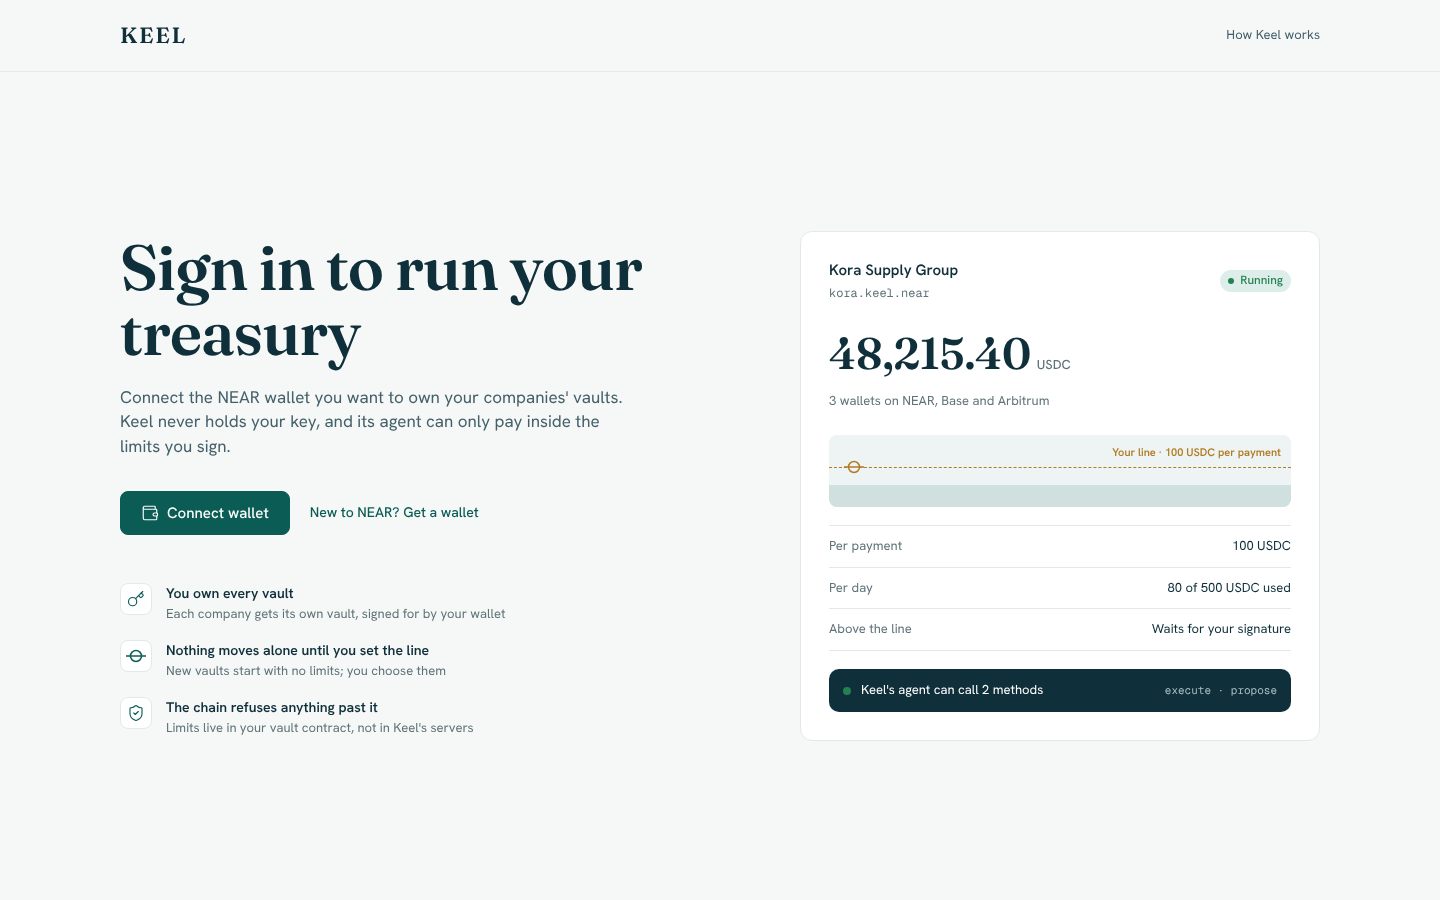
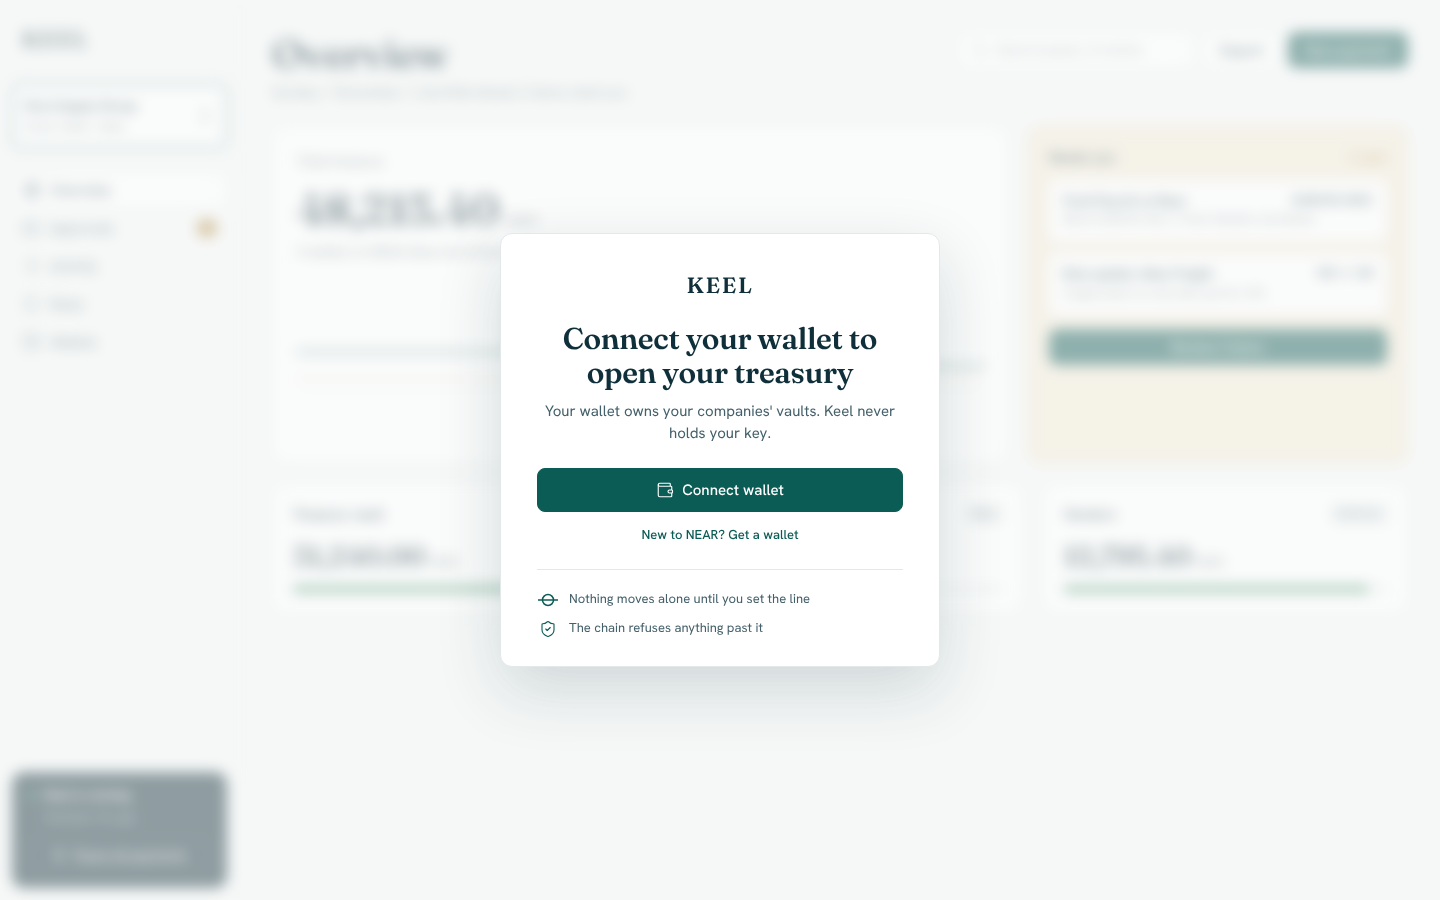
Mockup: sign-in as a Connect wallet panel over the blurred app

diff --git a/design/mockups/01-sign-in.html b/design/mockups/01-sign-in.html
@@ -3,102 +3,138 @@
 <head>
 <meta charset="utf-8" />
 <meta name="viewport" content="width=device-width, initial-scale=1" />
-<title>Keel · Sign in</title>
+<title>Keel · Connect wallet</title>
 <link href="https://fonts.googleapis.com/css2?family=Fraunces:opsz,wght@9..144,600&family=Hanken+Grotesk:wght@400;500;600&family=Geist+Mono:wght@400;500&display=swap" rel="stylesheet" />
 <link rel="stylesheet" href="shared.css" />
 <style>
-  .top { display: flex; align-items: center; justify-content: space-between; height: 72px; padding: 0 120px; border-bottom: 1px solid var(--line); background: var(--page); }
-  .top .wordmark { padding: 0; }
-  .top a { color: var(--ink-2); text-decoration: none; font-size: 13px; }
-  .wrap { display: grid; grid-template-columns: 1fr 520px; gap: 80px; align-items: center; min-height: calc(100vh - 72px); padding: 48px 120px; max-width: 1440px; margin: 0 auto; }
-  h1 { font-size: 64px; line-height: 1.02; }
-  .lead { font-size: 17px; color: var(--ink-2); margin: 20px 0 32px; max-width: 520px; }
-  .actions { display: flex; align-items: center; gap: 20px; }
-  .promises { margin-top: 48px; display: grid; gap: 16px; max-width: 520px; }
-  .promise { display: flex; gap: 14px; align-items: flex-start; }
-  .promise .ic { display: flex; align-items: center; justify-content: center; width: 32px; height: 32px; border-radius: 8px; background: var(--surface); border: 1px solid var(--line); color: var(--teal); flex: none; }
-  .promise b { display: block; font-weight: 600; }
-  .promise span { color: var(--muted); font-size: 13px; }
+  .company-card { cursor: pointer; border-color: var(--teal); box-shadow: 0 0 0 3px rgba(11,92,85,0.10); }
+  .switcher { position: absolute; left: 12px; top: 136px; width: 300px; z-index: 5; padding: 6px; background: var(--surface); border: 1px solid var(--line); border-radius: 12px; box-shadow: 0 12px 32px rgba(15,47,58,0.14); }
+  .switcher .label { padding: 8px 10px 6px; font-size: 12px; color: var(--muted); }
+  .opt { display: flex; align-items: center; gap: 10px; padding: 9px 10px; border-radius: 8px; }
+  .opt.on { background: var(--page); }
+  .opt .mark { display: inline-flex; align-items: center; justify-content: center; width: 28px; height: 28px; border-radius: 7px; background: var(--teal-tint); color: var(--teal); font: 600 13px var(--serif); flex: none; }
+  .opt .txt { flex: 1; min-width: 0; }
+  .opt .txt b { display: block; font-weight: 600; font-size: 13px; }
+  .opt .check { color: var(--teal); }
+  .divider { height: 1px; background: var(--line); margin: 6px 4px; }
+  .opt.add { color: var(--teal); font-weight: 600; font-size: 13px; }
+  .opt.add .mark { background: transparent; border: 1px dashed #b9c7c7; }
+  .opt .meta { font-size: 11px; color: var(--muted); }
 
-  /* Right: a vault card, the one bright element */
-  .vault { padding: 28px; position: relative; overflow: hidden; }
-  .vault-top { display: flex; align-items: center; justify-content: space-between; }
-  .vault-name { font-weight: 600; font-size: 15px; }
-  .vault .bal { font-size: 44px; margin: 20px 0 4px; }
-  .vault .bal small { font: 500 13px var(--sans); color: var(--muted); margin-left: 6px; letter-spacing: 0; }
-  .line-meter { position: relative; height: 72px; margin: 24px 0 8px; border-radius: 8px; background: var(--chart-fill); overflow: hidden; }
-  .line-meter .water { position: absolute; left: 0; right: 0; bottom: 0; height: 22px; background: #cfe0de; }
-  .line-meter .cap { position: absolute; left: 0; right: 0; top: 32px; border-top: 1.5px dashed var(--brass); }
-  .line-meter .cap-label { position: absolute; right: 10px; top: 10px; font-size: 11px; color: var(--brass); font-weight: 600; }
-  .line-meter .mark { position: absolute; left: 14px; top: 25px; }
-  .rules { margin-top: 18px; border-top: 1px solid var(--line); }
-  .rules div { display: flex; justify-content: space-between; padding: 11px 0; border-bottom: 1px solid var(--line); font-size: 13px; }
-  .rules div span:first-child { color: var(--muted); }
-  .agent { display: flex; align-items: center; gap: 10px; margin-top: 18px; padding: 12px 14px; border-radius: 10px; background: var(--ink); color: #fff; font-size: 13px; }
-  .agent .dot { width: 8px; height: 8px; border-radius: 4px; background: var(--good); }
-  .agent span:last-child { margin-left: auto; color: #a9bcc1; font-family: var(--mono); font-size: 11px; }
+  .dim { opacity: 0.55; }
+  .grid { display: grid; grid-template-columns: 1fr 380px; gap: 20px; }
+  .treasury .big { font-size: 44px; margin-top: 6px; }
+  .treasury .big small { font: 500 13px var(--sans); color: var(--muted); margin-left: 6px; letter-spacing: 0; }
+  .chart { margin-top: 20px; height: 150px; }
+  .needs { background: var(--brass-tint); border: 1px solid var(--brass-line); border-radius: 12px; padding: 20px; }
+  .needs .top { display: flex; justify-content: space-between; align-items: center; font-weight: 600; }
+  .needs .top span { font-size: 12px; color: var(--brass); font-weight: 500; }
+  .needs .item { background: var(--surface); border-radius: 8px; padding: 12px 14px; margin-top: 12px; font-size: 13px; }
+  .needs .item b { display: flex; justify-content: space-between; font-weight: 600; }
+  .needs .item span { color: var(--muted); font-size: 12px; }
+  .needs .btn { margin-top: 14px; }
+  .wallets { display: grid; grid-template-columns: repeat(3, 1fr); gap: 20px; margin-top: 20px; }
+  .w { padding: 20px; }
+  .w .t { display: flex; justify-content: space-between; font-weight: 600; }
+  .w .v { font-size: 28px; margin: 12px 0 10px; }
+  .w .v small { font: 500 12px var(--sans); color: var(--muted); margin-left: 4px; }
+  .bar { height: 6px; border-radius: 3px; background: #e7eded; overflow: hidden; }
+  .bar i { display: block; height: 100%; background: var(--good); }
+
+  .behind { filter: blur(7px) saturate(0.9); pointer-events: none; user-select: none; }
+  .scrim { position: fixed; inset: 0; background: rgba(246,248,247,0.55); display: flex; align-items: center; justify-content: center; }
+  .gate { width: 440px; padding: 36px 36px 28px; text-align: center; box-shadow: 0 24px 64px rgba(15,47,58,0.16); }
+  .gate .wordmark { display: block; padding: 0; margin-bottom: 20px; }
+  .gate h1 { font-size: 30px; line-height: 1.15; }
+  .gate .lead { color: var(--ink-2); font-size: 15px; margin: 10px 0 24px; }
+  .gate .promises { margin-top: 24px; padding-top: 20px; border-top: 1px solid var(--line); display: grid; gap: 10px; text-align: left; }
+  .gate .promises div { display: flex; gap: 10px; align-items: center; font-size: 13px; color: var(--ink-2); }
+  .gate .promises svg { color: var(--teal); width: 22px; flex: none; }
+  .gate .new { display: block; margin-top: 14px; font-size: 13px; }
 </style>
 </head>
 <body>
-  <header class="top">
-    <span class="wordmark">KEEL</span>
-    <a href="#">How Keel works</a>
-  </header>
-
-  <main class="wrap">
-    <section>
-      <h1 class="serif">Sign in to run your treasury</h1>
-      <p class="lead">Connect the NEAR wallet you want to own your companies' vaults. Keel never holds your key, and its agent can only pay inside the limits you sign.</p>
-      <div class="actions">
-        <button class="btn primary lg">
-          <svg class="icon" viewBox="0 0 24 24"><path d="M19 7V4a1 1 0 0 0-1-1H5a2 2 0 0 0 0 4h15a1 1 0 0 1 1 1v4h-3a2 2 0 0 0 0 4h3a1 1 0 0 0 1-1v-2a1 1 0 0 0-1-1"/><path d="M3 5v14a2 2 0 0 0 2 2h15a1 1 0 0 0 1-1v-4"/></svg>
-          Connect wallet
-        </button>
-        <a class="link" href="#">New to NEAR? Get a wallet</a>
-      </div>
-
-      <div class="promises">
-        <div class="promise">
-          <span class="ic"><svg class="icon" viewBox="0 0 24 24"><path d="m15.5 7.5 2.3 2.3a1 1 0 0 0 1.4 0l2.1-2.1a1 1 0 0 0 0-1.4L19 4"/><path d="m21 2-9.6 9.6"/><circle cx="7.5" cy="15.5" r="5.5"/></svg></span>
-          <div><b>You own every vault</b><span>Each company gets its own vault, signed for by your wallet</span></div>
-        </div>
-        <div class="promise">
-          <span class="ic"><svg class="loadline" viewBox="0 0 22 14"><circle cx="11" cy="7" r="5.5" fill="none" stroke="currentColor" stroke-width="1.5"/><path d="M1 7h20" stroke="currentColor" stroke-width="1.5"/></svg></span>
-          <div><b>Nothing moves alone until you set the line</b><span>New vaults start with no limits; you choose them</span></div>
-        </div>
-        <div class="promise">
-          <span class="ic"><svg class="icon" viewBox="0 0 24 24"><path d="M20 13c0 5-3.5 7.5-7.66 8.95a1 1 0 0 1-.67-.01C7.5 20.5 4 18 4 13V6a1 1 0 0 1 1-1c2 0 4.5-1.2 6.24-2.72a1.17 1.17 0 0 1 1.52 0C14.51 3.81 17 5 19 5a1 1 0 0 1 1 1z"/><path d="m9 12 2 2 4-4"/></svg></span>
-          <div><b>The chain refuses anything past it</b><span>Limits live in your vault contract, not in Keel's servers</span></div>
-        </div>
-      </div>
-    </section>
-
-    <aside class="card vault">
-      <div class="vault-top">
-        <div>
-          <div class="vault-name">Kora Supply Group</div>
+  <div class="app behind" aria-hidden="true">
+    <aside class="sidebar">
+      <span class="wordmark">KEEL</span>
+      <div class="company-card">
+        <div class="who">
+          <div class="name">Kora Supply Group</div>
           <span class="mono">kora.keel.near</span>
         </div>
-        <span class="pill ok">Running</span>
-      </div>
-      <div class="bal serif num">48,215.40<small>USDC</small></div>
-      <span class="muted" style="font-size:13px">3 wallets on NEAR, Base and Arbitrum</span>
-
-      <div class="line-meter">
-        <div class="water"></div>
-        <div class="cap"></div>
-        <svg class="loadline mark" viewBox="0 0 22 14" style="color:var(--brass)"><circle cx="11" cy="7" r="5.5" fill="var(--chart-fill)" stroke="currentColor" stroke-width="1.5"/><path d="M1 7h20" stroke="currentColor" stroke-width="1.5"/></svg>
-        <span class="cap-label">Your line · 100 USDC per payment</span>
+        <svg class="icon" style="color:var(--muted)" viewBox="0 0 24 24"><path d="m7 15 5 5 5-5"/><path d="m7 9 5-5 5 5"/></svg>
       </div>
 
-      <div class="rules">
-        <div><span>Per payment</span><span class="num">100 USDC</span></div>
-        <div><span>Per day</span><span class="num">80 of 500 USDC used</span></div>
-        <div><span>Above the line</span><span>Waits for your signature</span></div>
-      </div>
+      <nav class="nav">
+        <a class="active"><svg class="icon" viewBox="0 0 24 24"><rect width="7" height="7" x="3" y="3" rx="1"/><rect width="7" height="7" x="14" y="3" rx="1"/><rect width="7" height="7" x="14" y="14" rx="1"/><rect width="7" height="7" x="3" y="14" rx="1"/></svg>Overview</a>
+        <a><svg class="icon" viewBox="0 0 24 24"><polyline points="22 12 16 12 14 15 10 15 8 12 2 12"/><path d="M5.45 5.11 2 12v6a2 2 0 0 0 2 2h16a2 2 0 0 0 2-2v-6l-3.45-6.89A2 2 0 0 0 16.76 4H7.24a2 2 0 0 0-1.79 1.11z"/></svg>Approvals<span class="count">2</span></a>
+        <a><svg class="icon" viewBox="0 0 24 24"><path d="M3 12h.01M3 18h.01M3 6h.01M8 12h13M8 18h13M8 6h13"/></svg>Activity</a>
+        <a><svg class="icon" viewBox="0 0 24 24"><path d="M21 4h-7M10 4H3M21 12h-9M8 12H3M21 20h-5M12 20H3M14 2v4M8 10v4M16 18v4"/></svg>Rules</a>
+        <a><svg class="icon" viewBox="0 0 24 24"><path d="M19 7V4a1 1 0 0 0-1-1H5a2 2 0 0 0 0 4h15a1 1 0 0 1 1 1v4h-3a2 2 0 0 0 0 4h3a1 1 0 0 0 1-1v-2a1 1 0 0 0-1-1"/><path d="M3 5v14a2 2 0 0 0 2 2h15a1 1 0 0 0 1-1v-4"/></svg>Wallets</a>
+      </nav>
 
-      <div class="agent"><span class="dot"></span><span>Keel's agent can call 2 methods</span><span>execute · propose</span></div>
+      <div class="status-box">
+        <div class="row"><span class="dot"></span>Keel is running</div>
+        <p>Checked 12s ago</p>
+        <button class="btn"><svg class="icon" style="width:14px;height:14px" viewBox="0 0 24 24"><rect x="14" y="4" width="4" height="16" rx="1"/><rect x="6" y="4" width="4" height="16" rx="1"/></svg>Pause all payments</button>
+      </div>
     </aside>
-  </main>
+
+    <main class="main">
+      <div class="head">
+        <div>
+          <h1 class="serif">Overview</h1>
+          <p class="sub">Sunday, 1 November, 1 shortfall ahead, 2 items need you</p>
+        </div>
+        <div class="tools">
+          <div class="search"><svg class="icon" style="width:16px;height:16px" viewBox="0 0 24 24"><circle cx="11" cy="11" r="8"/><path d="m21 21-4.3-4.3"/></svg>Search payees, tx hashes</div>
+          <button class="btn">Export</button>
+          <button class="btn primary">New payment</button>
+        </div>
+      </div>
+
+      <div class="grid">
+        <section class="card card-pad treasury">
+          <span class="muted">Total treasury</span>
+          <div class="big serif num">48,215.40<small>USDC</small></div>
+          <span class="muted" style="font-size:13px">3 wallets on NEAR, Base and Arbitrum</span>
+          <svg class="chart" viewBox="0 0 640 150" width="100%" preserveAspectRatio="none">
+            <line x1="0" y1="110" x2="640" y2="110" stroke="#e3e8e8"/>
+            <line x1="0" y1="96" x2="640" y2="96" stroke="var(--brass)" stroke-dasharray="4 4"/>
+            <path d="M0 70 H200 V12 H300 V84 H640" fill="none" stroke="var(--teal)" stroke-width="2"/>
+            <path d="M200 70 H300 V84 H200Z" fill="var(--chart-fill)"/>
+          </svg>
+        </section>
+        <section class="needs">
+          <div class="top">Needs you<span>2 open</span></div>
+          <div class="item"><b>Fund Payroll on Base<span class="num" style="color:var(--ink)">8,000.00 USDC</span></b><span>Short 6,920 for Nov 7, from Vendors via Intents</span></div>
+          <div class="item"><b>Rule update: Atlas Freight<span style="color:var(--ink)">100 → 140</span></b><span>3 approvals in a row, bills up 5 to 12%</span></div>
+          <button class="btn primary block">Review 2 items</button>
+        </section>
+      </div>
+
+      <div class="wallets">
+        <section class="card w"><div class="t">Treasury vault<span class="tag">NEAR</span></div><div class="v serif num">31,240.00<small>USDC</small></div><div class="bar"><i style="width:92%"></i></div></section>
+        <section class="card w"><div class="t">Payroll<span class="tag">Base</span></div><div class="v serif num">4,180.00<small>USDC</small></div><div class="bar"><i style="width:26%;background:var(--brass)"></i></div></section>
+        <section class="card w"><div class="t">Vendors<span class="tag">Arbitrum</span></div><div class="v serif num">12,795.40<small>USDC</small></div><div class="bar"><i style="width:94%"></i></div></section>
+      </div>
+    </main>
+  </div>
+  <div class="scrim">
+    <section class="card gate" role="dialog" aria-labelledby="gate-title">
+      <span class="wordmark">KEEL</span>
+      <h1 class="serif" id="gate-title">Connect your wallet to open your treasury</h1>
+      <p class="lead">Your wallet owns your companies' vaults. Keel never holds your key.</p>
+      <button class="btn primary lg block">
+        <svg class="icon" viewBox="0 0 24 24"><path d="M19 7V4a1 1 0 0 0-1-1H5a2 2 0 0 0 0 4h15a1 1 0 0 1 1 1v4h-3a2 2 0 0 0 0 4h3a1 1 0 0 0 1-1v-2a1 1 0 0 0-1-1"/><path d="M3 5v14a2 2 0 0 0 2 2h15a1 1 0 0 0 1-1v-4"/></svg>
+        Connect wallet
+      </button>
+      <a class="link new" href="#">New to NEAR? Get a wallet</a>
+      <div class="promises">
+        <div><svg class="loadline" viewBox="0 0 22 14"><circle cx="11" cy="7" r="5.5" fill="none" stroke="currentColor" stroke-width="1.5"/><path d="M1 7h20" stroke="currentColor" stroke-width="1.5"/></svg>Nothing moves alone until you set the line</div>
+        <div><svg class="icon" viewBox="0 0 24 24"><path d="M20 13c0 5-3.5 7.5-7.66 8.95a1 1 0 0 1-.67-.01C7.5 20.5 4 18 4 13V6a1 1 0 0 1 1-1c2 0 4.5-1.2 6.24-2.72a1.17 1.17 0 0 1 1.52 0C14.51 3.81 17 5 19 5a1 1 0 0 1 1 1z"/><path d="m9 12 2 2 4-4"/></svg>The chain refuses anything past it</div>
+      </div>
+    </section>
+  </div>
 </body>
 </html>
